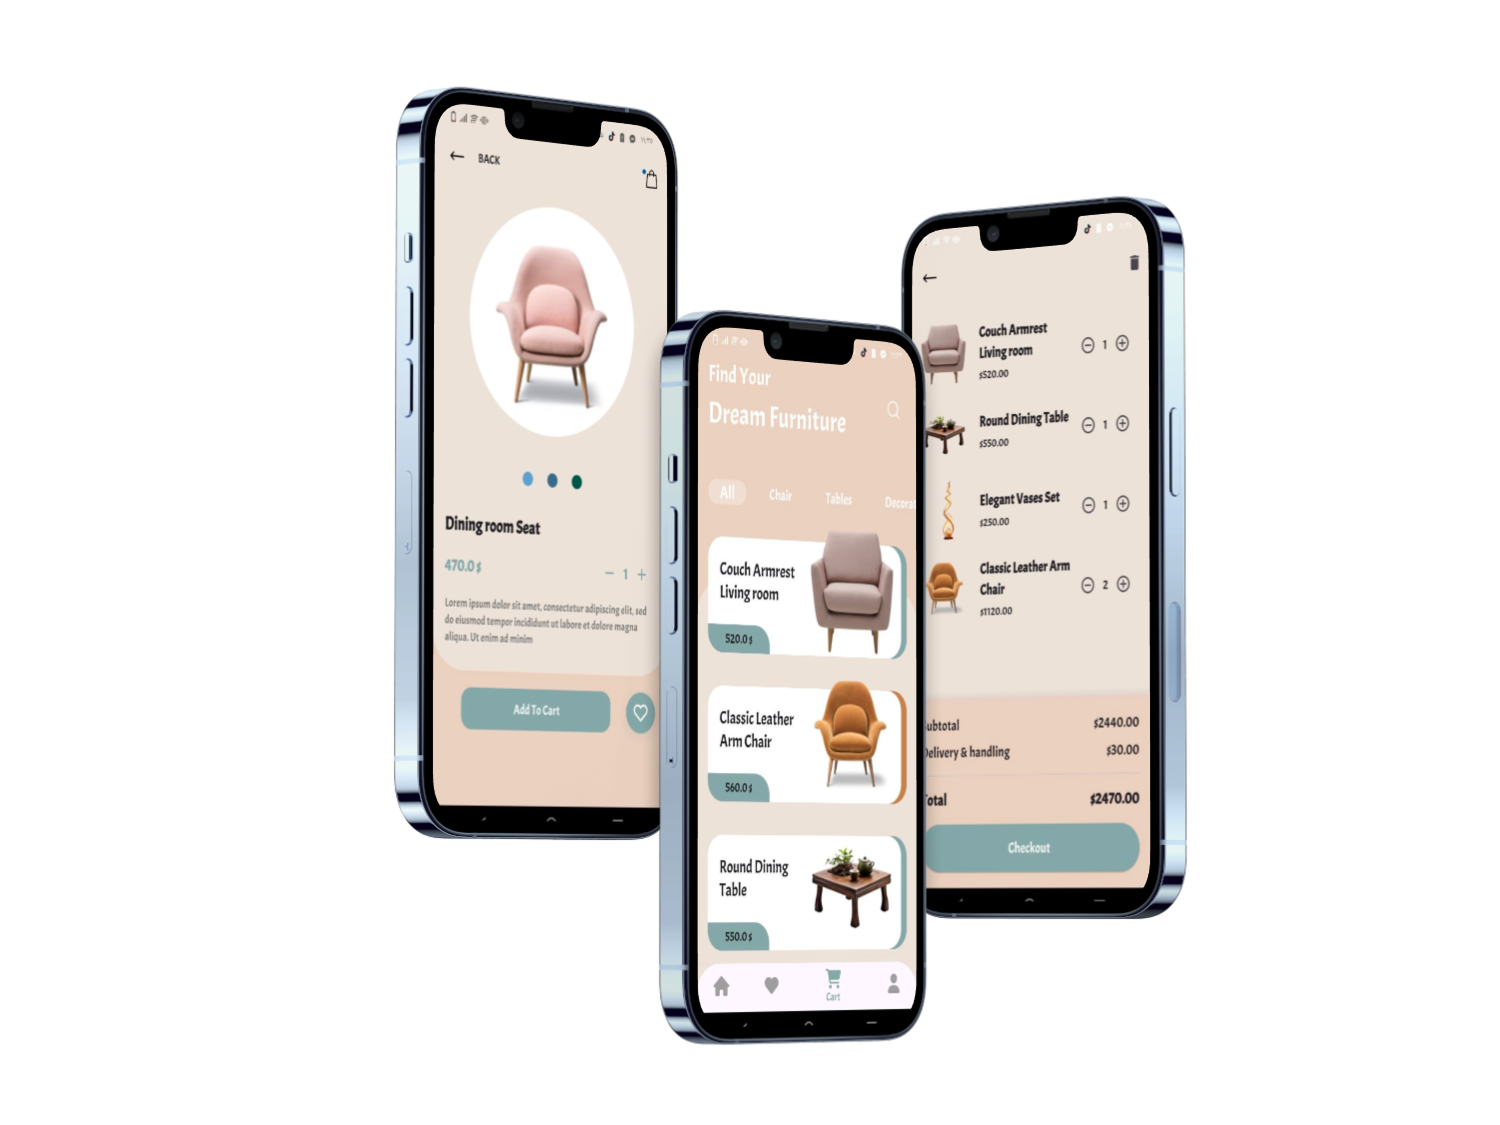
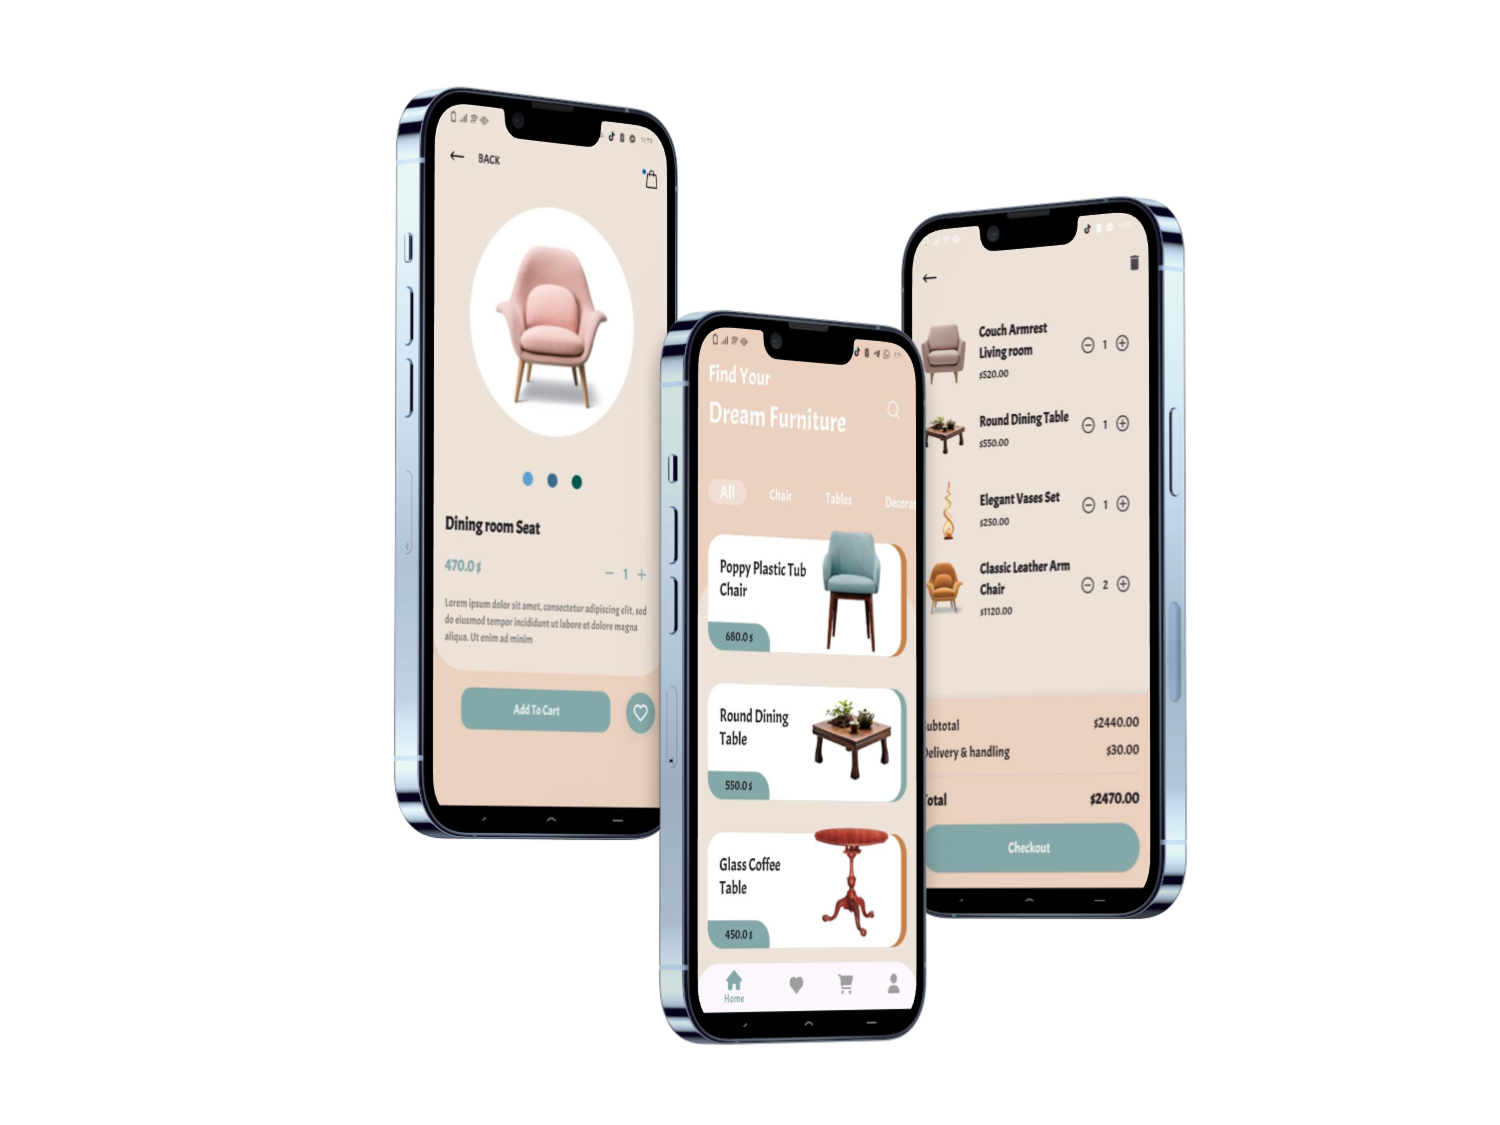
update portfolio

Changed region(s): [[0.46, 0.4667, 0.6133, 0.9022], [0.46, 0.8089, 0.5213, 0.9022]]

diff --git a/src/components/pages/AllProjects-comps/AllProjects.jsx b/src/components/pages/AllProjects-comps/AllProjects.jsx
@@ -5,7 +5,7 @@ const AllProjects = () => {
   const projects = [
     {
     id: 1,
-    title: "CareNest - AI-Powered Infant Care AppDeveloped",
+    title: "CareNest - AI-Powered Infant Care App",
     description: "It analyzes baby cries in real-time and tracks health and growth. It also provides vaccination reminders and a bilingual chatbot.The app helps parents manage infant care easily and confidently.",
     technologies: "Using Flutter, Dart, Firebase, Dio, and Retrofit with Clean Architecture. Used Cubit for state management and get_it for dependency injection.",
     src: "/images/projectsImages/CareNestApp.png",
@@ -14,7 +14,7 @@ const AllProjects = () => {
 
   {
     id: 2,
-    title: "ORB – Smart Learning Marketplace",
+    title: "ORB – Smart Learning App",
     description:
       "A smart learning platform where students can request lessons and receive offers from tutors, negotiate prices in real-time, and join live sessions inside the app. It provides a seamless educational experience with chat, meetings, and secure payments.",
     src: "/images/projectsImages/ORBApp.png",
@@ -22,7 +22,7 @@ const AllProjects = () => {
   },
     {
     id: 3,
-    title: "Rafiq – Volunteer & Assistance Mobile App",
+    title: "Rafiq – Volunteer & Assistance App",
     description:
       "A community-based mobile application that connects people in need with nearby volunteers for real-time assistance and support.",
     src: "/images/projectsImages/RafikApp.png",
@@ -30,7 +30,7 @@ const AllProjects = () => {
   },
     {
     id: 4,
-    title: "Sheftaya – Daily Work Marketplace",
+    title: "Sheftaya – Daily Work App",
     description:
       "A mobile application that connects business owners with people seeking flexible daily work. Each shift includes clear details and real reviews, ensuring transparency and safety for both parties with secure financial handling.",
     src: "/images/projectsImages/SheftayaApp.png",

diff --git a/src/utils/constants.js b/src/utils/constants.js
@@ -1,7 +1,7 @@
 const projects = [
   {
     id: 1,
-    title: "CareNest - AI-Powered Infant Care AppDeveloped",
+    title: "CareNest - AI-Powered Infant Care App",
     description: "It analyzes baby cries in real-time and tracks health and growth. It also provides vaccination reminders and a bilingual chatbot.The app helps parents manage infant care easily and confidently.",
     technologies: "Using Flutter, Dart, Firebase, Dio, and Retrofit with Clean Architecture. Used Cubit for state management and get_it for dependency injection.",
     src: "/images/projectsImages/CareNestApp.png",
@@ -10,7 +10,7 @@ const projects = [
 
   {
     id: 2,
-    title: "ORB – Smart Learning Marketplace",
+    title: "ORB – Smart Learning App",
     description:
       "A smart learning platform where students can request lessons and receive offers from tutors, negotiate prices in real-time, and join live sessions inside the app. It provides a seamless educational experience with chat, meetings, and secure payments.",
     technologies:
@@ -20,7 +20,7 @@ const projects = [
   },
     {
     id: 3,
-    title: "Rafiq – Volunteer & Assistance Mobile App",
+    title: "Rafiq – Volunteer & Assistance App",
     description:
       "A community-based mobile application that connects people in need with nearby volunteers for real-time assistance and support.",
     technologies:
@@ -30,7 +30,7 @@ const projects = [
   },
     {
     id: 4,
-    title: "Sheftaya – Daily Work Marketplace",
+    title: "Sheftaya – Daily Work App",
     description:
       "A mobile application that connects business owners with people seeking flexible daily work. Each shift includes clear details and real reviews, ensuring transparency and safety for both parties with secure financial handling.",
     technologies:
